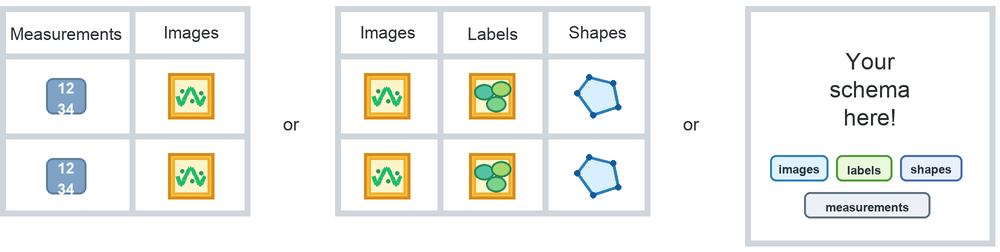
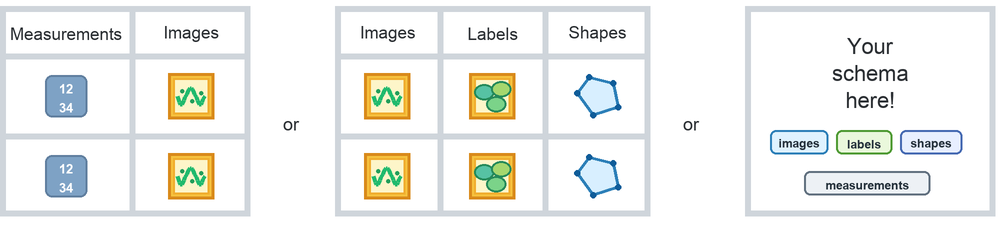
fix new image

diff --git a/docs/src/_static/generate_schema_image.py b/docs/src/_static/generate_schema_image.py
@@ -151,17 +151,18 @@ def _draw_measurement(
     x0, y0, x1, y1 = box
     cx = (x0 + x1) // 2
     cy = (y0 + y1) // 2
+    badge = (cx - 21, cy - 21, cx + 21, cy + 21)
     _rounded_rect(
         draw,
-        (cx - 20, cy - 18, cx + 20, cy + 18),
+        badge,
         fill="#7ea2c5",
         outline="#607f9f",
         radius=7,
     )
-    font = _font(15, bold=True)
+    font = _font(13, bold=True)
     _text_center(
         draw,
-        (cx - 20, cy - 19, cx + 20, cy + 18),
+        badge,
         "12\n34",
         font,
         fill="#fff",
@@ -309,18 +310,18 @@ def main() -> None:
     _text_center(draw, (670, 96, 712, 142), "or", _font(18))
 
     draw.rectangle(
-        (745 * SCALE, 6 * SCALE, 995 * SCALE, 246 * SCALE),
+        (745 * SCALE, 6 * SCALE, 995 * SCALE, 216 * SCALE),
         fill="#ffffff",
         outline="#cfd5db",
         width=6 * SCALE,
     )
-    _text_center(draw, (768, 44, 972, 126), "Your\nschema\nhere!", _font(23))
+    _text_center(draw, (770, 32, 970, 106), "Your\nschema\nhere!", _font(22))
     chip_font = _font(12, bold=True)
     chips = [
-        (770, 155, 828, 181, "images", "#dff2ff", "#2c7fb8"),
-        (836, 155, 892, 181, "labels", "#eaf8dc", "#4e9a33"),
-        (900, 155, 962, 181, "shapes", "#e8efff", "#4569b2"),
-        (804, 192, 930, 218, "measurements", "#edf1f5", "#61707f"),
+        (770, 130, 828, 154, "images", "#dff2ff", "#2c7fb8"),
+        (836, 130, 892, 154, "labels", "#eaf8dc", "#4e9a33"),
+        (900, 130, 962, 154, "shapes", "#e8efff", "#4569b2"),
+        (804, 171, 930, 195, "measurements", "#edf1f5", "#61707f"),
     ]
     for x0, y0, x1, y1, label, fill, outline in chips:
         _rounded_rect(draw, (x0, y0, x1, y1), fill=fill, outline=outline, radius=6)
